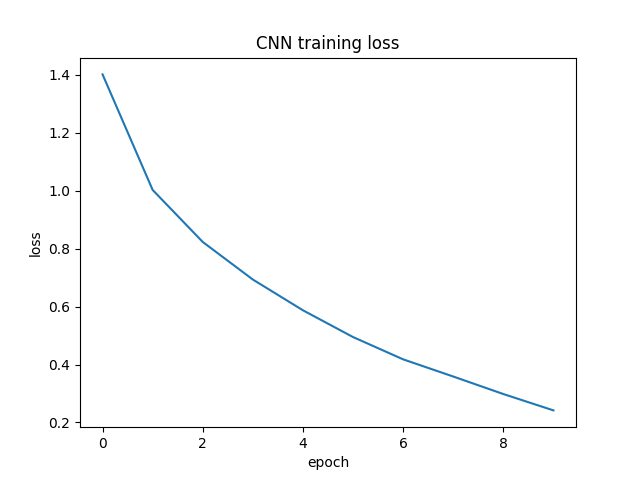
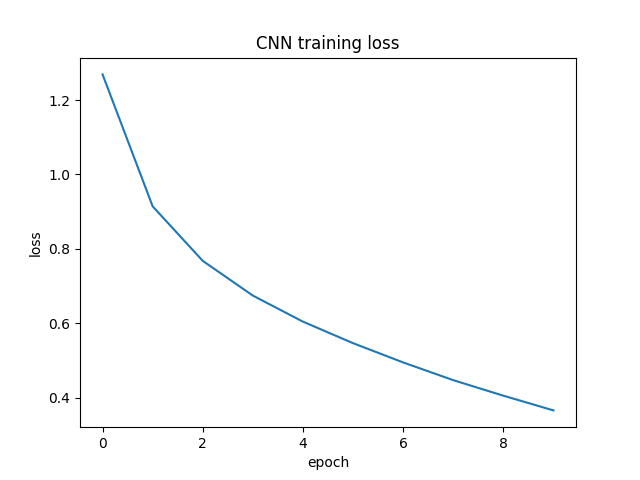
引入残差连接，计算参数量，计算量

diff --git a/test4.py b/test4.py
@@ -102,39 +102,69 @@ for epoch in range(10):
 visualize_predictions(model,test_loader,num_imagines=10)
 
 
-#CNN模型
-class CNN(nn.Module):
+#残差连接
+class ResidualBlock(nn.Module):
+    def __init__(self, in_channels, out_channels, stride=1):
+        super().__init__()
+        self.conv1 = nn.Conv2d(in_channels, out_channels, 3, stride, 1)
+        self.bn1 = nn.BatchNorm2d(out_channels)
+        self.relu = nn.ReLU()
+        self.conv2 = nn.Conv2d(out_channels, out_channels, 3, 1, 1)
+        self.bn2 = nn.BatchNorm2d(out_channels)
+
+        self.shortcut = nn.Sequential()
+        if stride != 1 or in_channels != out_channels:
+            self.shortcut = nn.Sequential(
+                nn.Conv2d(in_channels, out_channels, 1, stride),
+                nn.BatchNorm2d(out_channels)
+            )
+
+    def forward(self, x):
+        identity = self.shortcut(x)  # 旁路
+        out = self.conv1(x)
+        out = self.bn1(out)
+        out = self.relu(out)
+        out = self.conv2(out)
+        out = self.bn2(out)
+        out += identity  # 残差连接
+        out = self.relu(out)
+        return out
+
+
+class ImprovedCNN(nn.Module):
     def __init__(self):
-        super(CNN,self).__init__()
-        self.model=nn.Sequential(
-            #3-16
-            nn.Conv2d(3,16,kernel_size=3,padding=1),
-            nn.ReLU(),
+        super().__init__()
+        self.features = nn.Sequential(
+            # 第一组：3→16，带残差
+            ResidualBlock(3, 16),
             nn.MaxPool2d(2),
-            #16-32
-            nn.Conv2d(16,32,kernel_size=3,padding=1),
-            nn.ReLU(),
+
+            # 第二组：16→32，带残差
+            ResidualBlock(16, 32),
             nn.MaxPool2d(2),
-            #32-64
-            nn.Conv2d(32,64,kernel_size=3,padding=1),
+
+            # 第三组：32→64，带残差
+            ResidualBlock(32, 64),
             nn.MaxPool2d(2),
         )
-        self.fl=nn.Sequential(
+
+        self.classifier = nn.Sequential(
+            nn.AdaptiveAvgPool2d(1),
             nn.Flatten(),
-            nn.Linear(64*4*4,256),
+            nn.Linear(64, 256),
             nn.ReLU(),
-            nn.Linear(256,10)
+            nn.Linear(256, 10)
         )
-    def forward(self,x):
-        x=self.model(x)
-        print("卷积后的尺寸",x.shape)
-        x=self.fl(x)
+
+    def forward(self, x):
+        x = self.features(x)
+        x = self.classifier(x)
         return x
 
 device=torch.device('cuda'if torch.cuda.is_available()else'cpu')
 print(f"Using device:{device}")
-model=CNN()
-model=model.to(device)
+
+model = ImprovedCNN().to(device)
 #损失函数
 criterion=nn.CrossEntropyLoss()
 #优化器
@@ -222,9 +252,7 @@ for epoch in range(10):
         loss.backward()
 
         optimizer.step()
-        print("optimizer")
         scheduler.step()
-        print("scheduler")
         optimizer.zero_grad()
         running_loss += loss.item()
 
@@ -248,4 +276,22 @@ accuracy=100*correct/total
 print(f"准确率:{accuracy:.2f}%")
 #记录结果
 with open("test4_result.txt","a")as f:
-    f.write(f"warmup(5)+mixup(alpha=1.0),准确率:{accuracy:.2f}%\n")
+    f.write(f"warmup(5)+mixup(alpha=1.0),准确率：{accuracy:.2f}%\n")
+
+# 计算参数量和计算量
+from thop import profile, clever_format
+
+model.eval()
+dummy_input = torch.randn(1, 3, 32, 32).to(device)
+flops, params = profile(model, inputs=(dummy_input,), verbose=False)
+flops, params = clever_format([flops, params], "%.3f")
+
+print("\n" + "=" * 50)
+print("模型轻量化指标")
+print("=" * 50)
+print(f"参数量 (Params): {params}")
+print(f"计算量 (FLOPs): {flops}")
+print("=" * 50)
+
+with open("task4_results.txt", "a") as f:
+    f.write(f"参数量: {params}, 计算量: {flops}\n")
